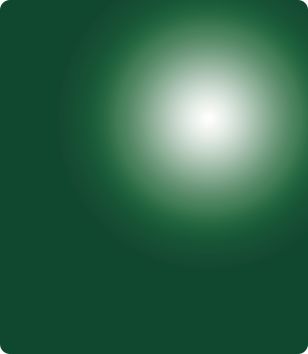
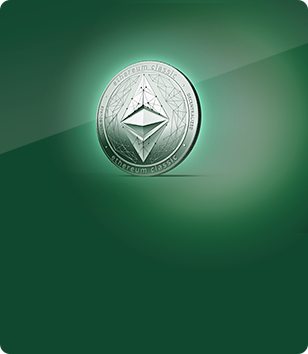
add style card

Changed region(s): [[0.0, 0.0932, 0.9058, 0.5282], [0.9351, 0.0932, 1.0, 0.1554]]

diff --git a/src/assets/scss/main.scss b/src/assets/scss/main.scss
@@ -5,7 +5,10 @@
 }
 
 .card {
-    // background: url(../img/ethereum.png) no-repeat center center;
+    background: url(../img/Ethereum.png) no-repeat center center;
+    border-radius: 10px;
+    padding: 30px 30px;
+    padding-top: 25px;
 }
 
 .card__title {
@@ -13,12 +16,14 @@
     font-weight: 700;
     text-align: center;
     margin: 0;
-    padding-top: 25px;
+    
 }
 
 .price {
     display: flex;
     justify-content: space-between;
+   
+    
     
     // width: 308px;
 }
@@ -63,10 +68,13 @@
 }
 
 .card__toggle {
-    display: block;
+    display: flex;
+    justify-content: space-between;
     margin-top: 20px;
 }
-
+.card__toggle-drs {
+    display: block;
+}
 .switch {
     display: inline-block;
     height: 16px;

diff --git a/src/assets/scss/header.scss b/src/assets/scss/header.scss
@@ -1,5 +1,5 @@
 .header {
-    margin-top: 70px;
+    padding-top: 70px;
 }
 .header__info {
     display: flex;
